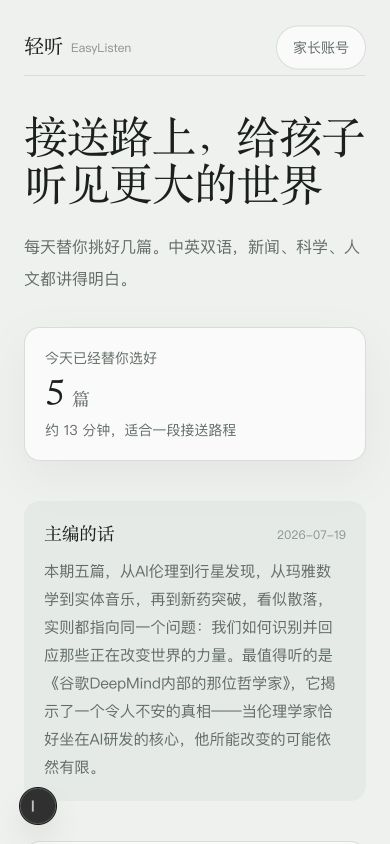
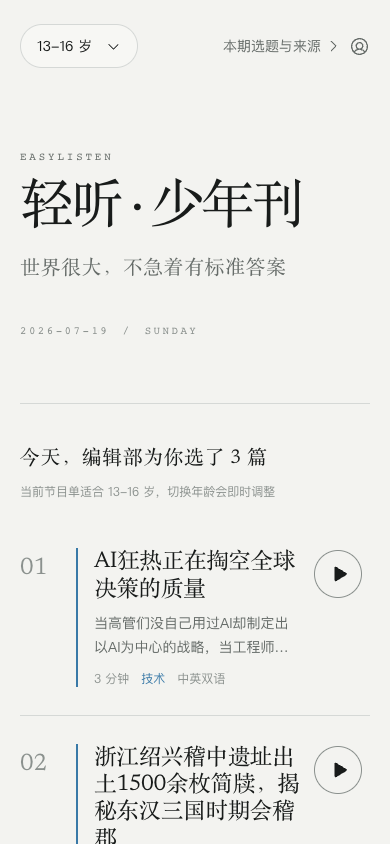
docs: refresh README screenshots

diff --git a/README.md b/README.md
@@ -26,7 +26,7 @@
 
 <p align="center">
   <a href="https://easylisten.shddai.net">
-    <img src="./docs/assets/readme/easylisten-home.png" width="420" alt="轻听移动端少年刊首页" />
+    <img src="./docs/assets/readme/easylisten-home.png" width="390" alt="轻听移动端少年刊首页" />
   </a>
 </p>
 